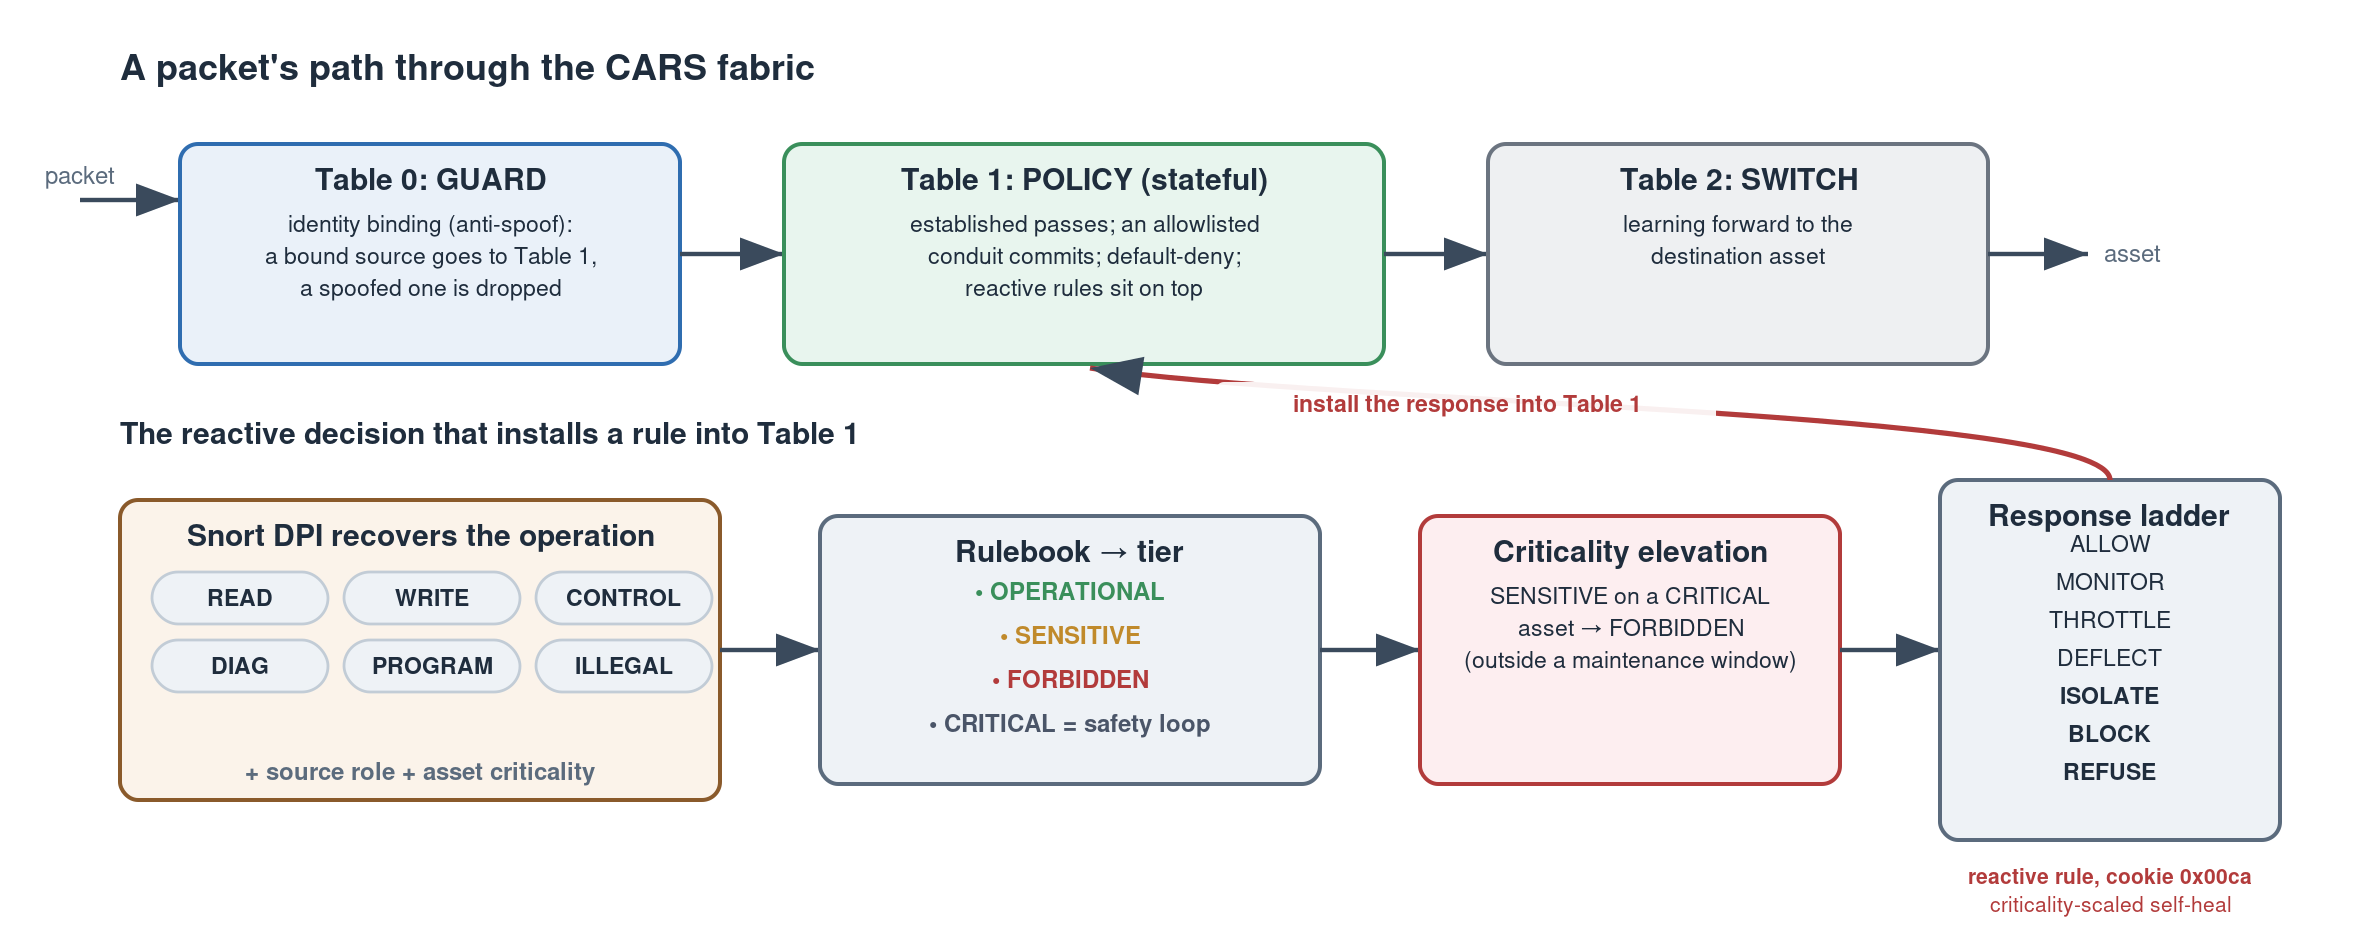
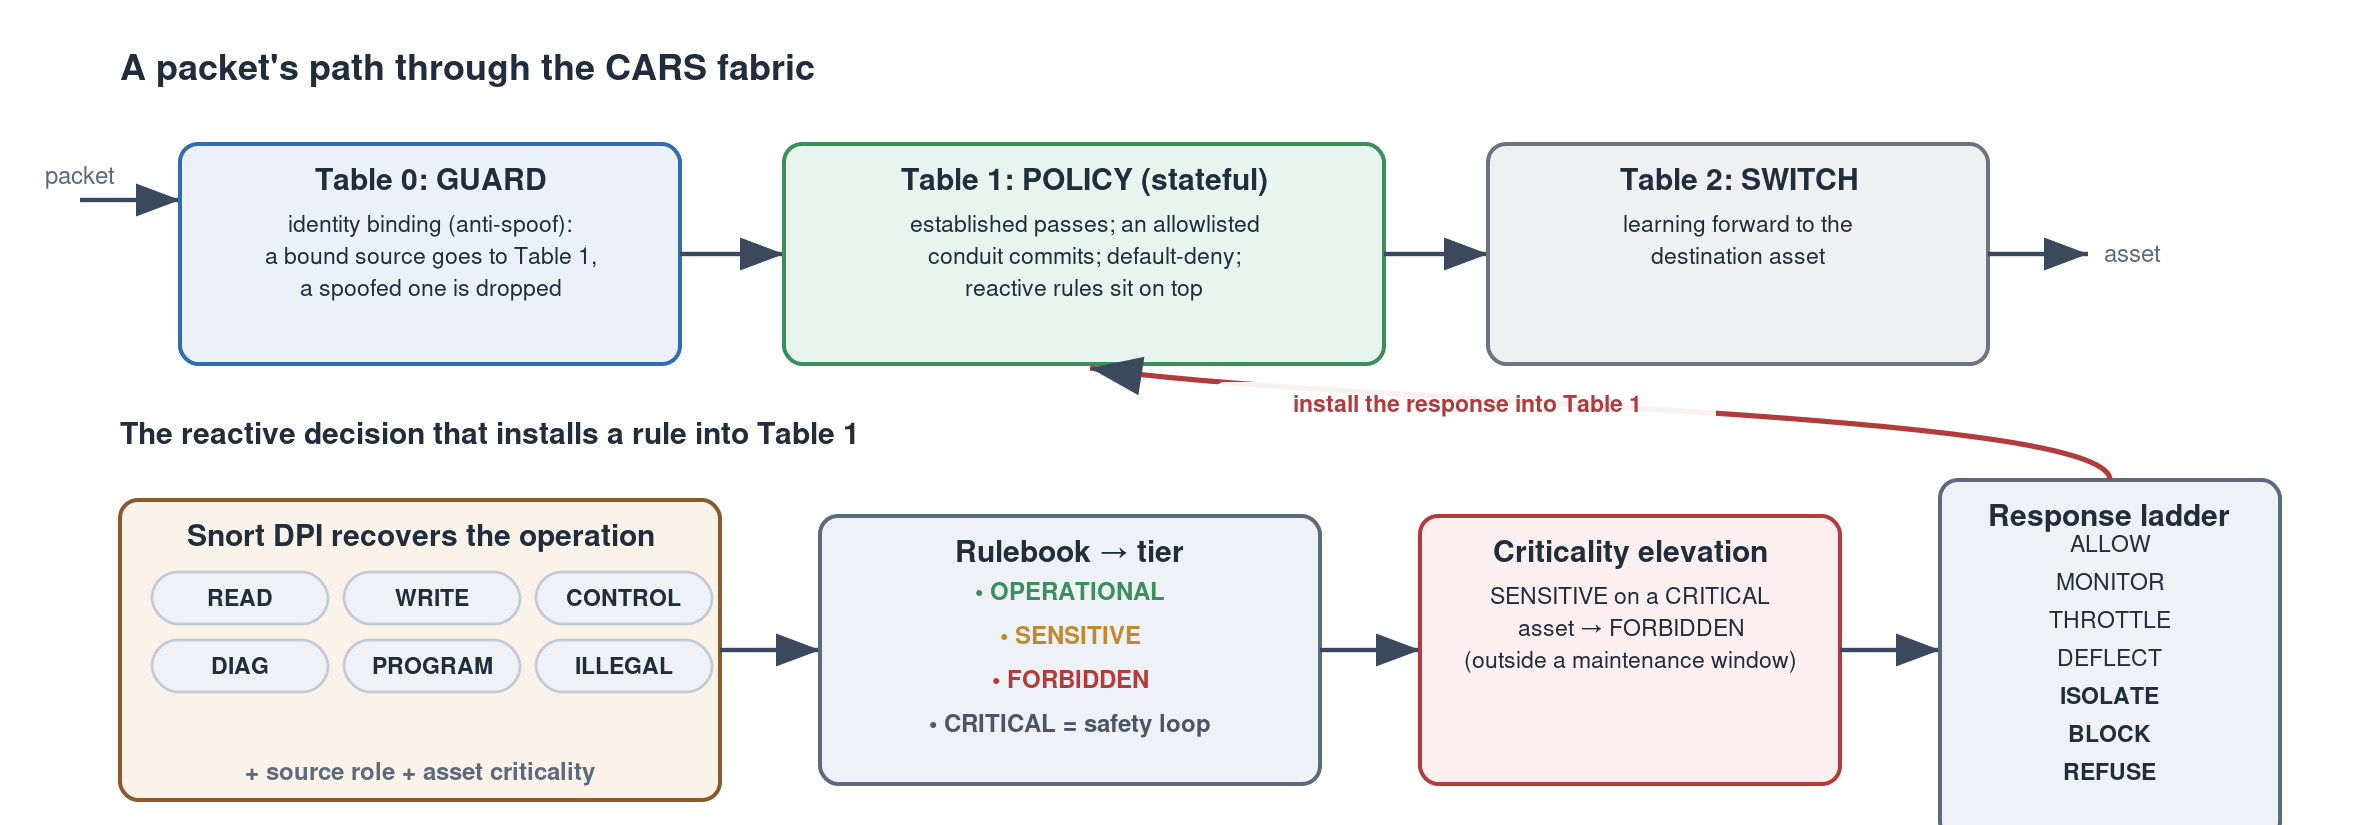
Figs 3.3 & 3.4: remove cookie/testbed specifics from the design figures
Fig 3.3 (fig:carsflow): crop off the bottom 'reactive rule, cookie 0x00ca /
criticality-scaled self-heal' annotation; caption no longer names the cookie
(now 'installed into Table 1 with a criticality-scaled self-heal').
Fig 3.4 (fig:flow): regenerate generic (new src/fig_flow_armed.py) with no
testbed asset names or cookie: Attacker (no IP) -> CARS fabric -> Critical PLC
-> Process (unsafe/held); 'ISOLATE (drop)' replaces 'ISOLATE 0xca drop'; caption
drops '(cookie 0x00ca)'. Both design-section figures now carry no implementation
constants. 94 pages, no errors.

diff --git a/report/03_execution.tex b/report/03_execution.tex
@@ -61,7 +61,7 @@ CARS enforces its policy in the data plane as a pipeline of three OpenFlow table
 \begin{figure}[t]
 \centering
 \includegraphics[width=\textwidth]{fig_cars_flow.png}
-\caption[A packet's path through the CARS fabric]{A packet's path through the CARS fabric, and the reactive decision that installs rules into it. Above, the three-table pipeline: a packet is admitted only if its identity binds at Table~0 (GUARD), its connection is permitted at the stateful Table~1 (POLICY), and it is then forwarded at Table~2 (SWITCH). Below, the decision that produces the reactive rules on Table~1: deep packet inspection recovers the operation, the rulebook maps the source role, operation and destination to a tier, a sensitive operation on a critical asset is elevated, and the tier, weight and rate select the graded response, installed under cookie \texttt{0x00ca} with a criticality-scaled self-heal (proactive policy carries \texttt{0x00a2}). Drawn for this report from the deployed pipeline, rulebook and Snort rules.}
+\caption[A packet's path through the CARS fabric]{A packet's path through the CARS fabric, and the reactive decision that installs rules into it. Above, the three-table pipeline: a packet is admitted only if its identity binds at Table~0 (GUARD), its connection is permitted at the stateful Table~1 (POLICY), and it is then forwarded at Table~2 (SWITCH). Below, the decision that produces the reactive rules on Table~1: deep packet inspection recovers the operation, the rulebook maps the source role, operation and destination to a tier, a sensitive operation on a critical asset is elevated, and the tier, weight and rate select the graded response, installed into Table~1 with a criticality-scaled self-heal. Drawn for this report from the deployed pipeline, rulebook and Snort rules.}
 \label{fig:carsflow}
 \end{figure}
 
@@ -94,7 +94,7 @@ The proactive and reactive rules carry distinct cookies, so the flow-integrity c
 \begin{figure}[t]
 \centering
 \includegraphics[width=0.9\textwidth]{flow_armed_vs_disarmed.png}
-\caption[A malicious write's path, armed and disarmed]{The path of a malicious S7 write in each state of the defence. Disarmed, the write crosses the fabric, reaches the critical PLC and drives the process to an unsafe state. Armed, the reactive rule (\texttt{cookie 0x00ca}) drops it in the fabric, so it never reaches the PLC and the process is held. The armed-versus-disarmed contrast is measured in Chapter~\ref{chap:evaluation}.}
+\caption[A malicious write's path, armed and disarmed]{The path of a malicious S7 write in each state of the defence. Disarmed, the write crosses the fabric, reaches the critical PLC and drives the process to an unsafe state. Armed, the reactive rule drops it in the fabric, so it never reaches the PLC and the process is held. The armed-versus-disarmed contrast is measured in Chapter~\ref{chap:evaluation}.}
 \label{fig:flow}
 \end{figure}
 

diff --git a/report/figures/src/fig_flow_armed.py b/report/figures/src/fig_flow_armed.py
@@ -1,0 +1,44 @@
+# Figure 3.4 - a malicious write's path, armed vs disarmed (generic, no testbed names/cookie)
+import matplotlib; matplotlib.use("Agg")
+import matplotlib.pyplot as plt
+from matplotlib.patches import FancyBboxPatch, FancyArrowPatch
+fig,ax=plt.subplots(figsize=(11,5.4),dpi=150); ax.set_xlim(0,100); ax.set_ylim(0,55); ax.axis("off")
+TX="#1f2933"
+RED_F="#f8d5cd"; RED_E="#c0392b"; AMB_F="#fde9c8"; AMB_E="#d79b00"
+GRN_F="#d5e8d4"; GRN_E="#82b366"; BLU_F="#dae8fc"; BLU_E="#6c8ebf"
+GRY_F="#eef0f2"; GRY_E="#b6bcc2"
+def box(x,y,w,h,fc,ec,label,tcol=TX,lw=1.8,r=2.0,fs=11):
+    ax.add_patch(FancyBboxPatch((x,y),w,h,boxstyle=f"round,pad=0.02,rounding_size={r}",fc=fc,ec=ec,lw=lw,mutation_aspect=0.6))
+    ax.text(x+w/2,y+h/2,label,ha="center",va="center",fontsize=fs,color=tcol)
+def arrow(x1,y,x2,color=RED_E,dashed=False,lw=2.4):
+    ax.add_patch(FancyArrowPatch((x1,y),(x2,y),arrowstyle="-|>",mutation_scale=16,lw=lw,color=color,
+                 linestyle=(0,(4,3)) if dashed else "solid"))
+def alabel(xc,y,s,col=TX): ax.text(xc,y+2.4,s,ha="center",va="center",fontsize=9,color=col,style="italic")
+
+# ---- Row 1: DISARMED ----
+y=36; h=11
+ax.text(4,50,"DISARMED (unprotected)",fontsize=12.5,weight="bold",color=RED_E,ha="left")
+box(4,y,18,h,RED_F,RED_E,"Attacker")
+arrow(22,y+h/2,30); alabel(26,y+h/2,"malicious write")
+box(30,y,22,h,AMB_F,AMB_E,"CARS fabric\n(conduit passes)")
+arrow(52,y+h/2,60)
+box(60,y,16,h,BLU_F,BLU_E,"Critical PLC")
+arrow(76,y+h/2,84)
+box(84,y,14,h,RED_F,RED_E,"Process\nunsafe state",tcol=RED_E)
+
+# ---- Row 2: ARMED ----
+y=8
+ax.text(4,22,"ARMED (CARS)",fontsize=12.5,weight="bold",color=GRN_E,ha="left")
+box(4,y,18,h,RED_F,RED_E,"Attacker")
+arrow(22,y+h/2,30); alabel(26,y+h/2,"malicious write")
+box(30,y,22,h,GRN_F,GRN_E,"CARS fabric\nISOLATE (drop)")
+# X + dropped
+ax.text(55.5,y+h/2,"✗",ha="center",va="center",fontsize=20,color=RED_E,weight="bold")
+ax.text(55.5,y-1.5,"dropped",ha="center",va="center",fontsize=9,color=RED_E,style="italic")
+arrow(58,y+h/2,66,color=GRY_E,dashed=True,lw=1.8)
+box(66,y,16,h,GRY_F,GRY_E,"Critical PLC",tcol="#8a9096")
+box(84,y,14,h,GRN_F,GRN_E,"Process\nheld",tcol=GRN_E)
+
+plt.tight_layout()
+plt.savefig("flow_armed_vs_disarmed.png",dpi=150,bbox_inches="tight",facecolor="white")
+print("saved flow_armed_vs_disarmed.png")
